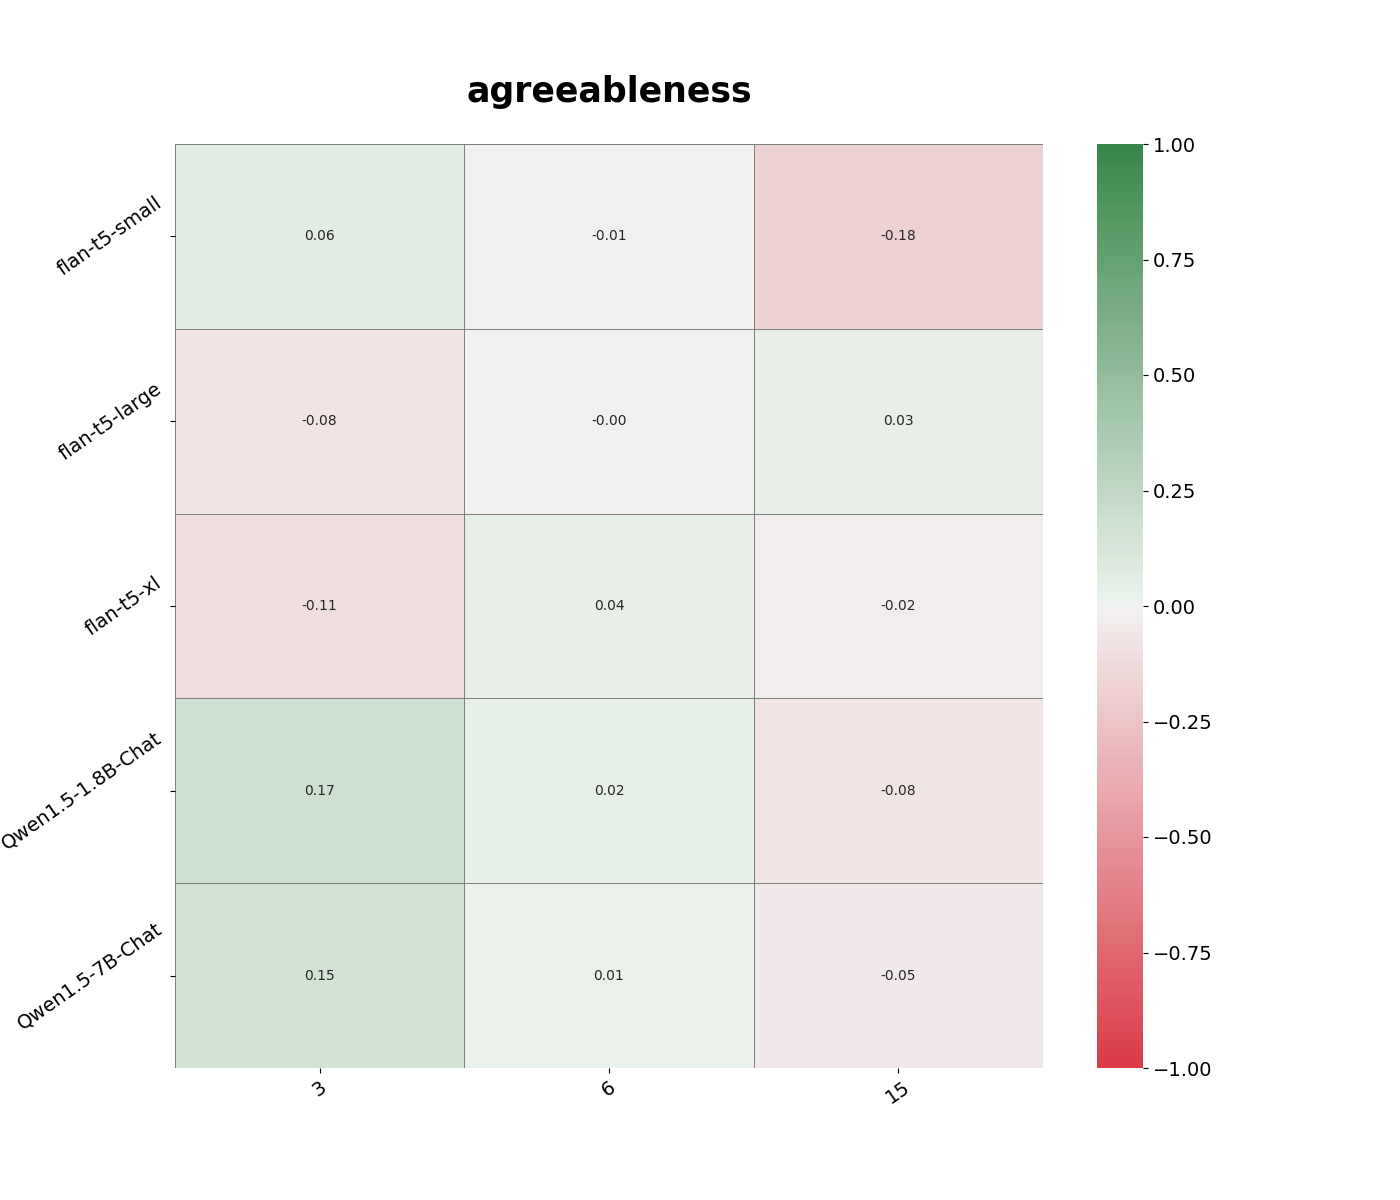
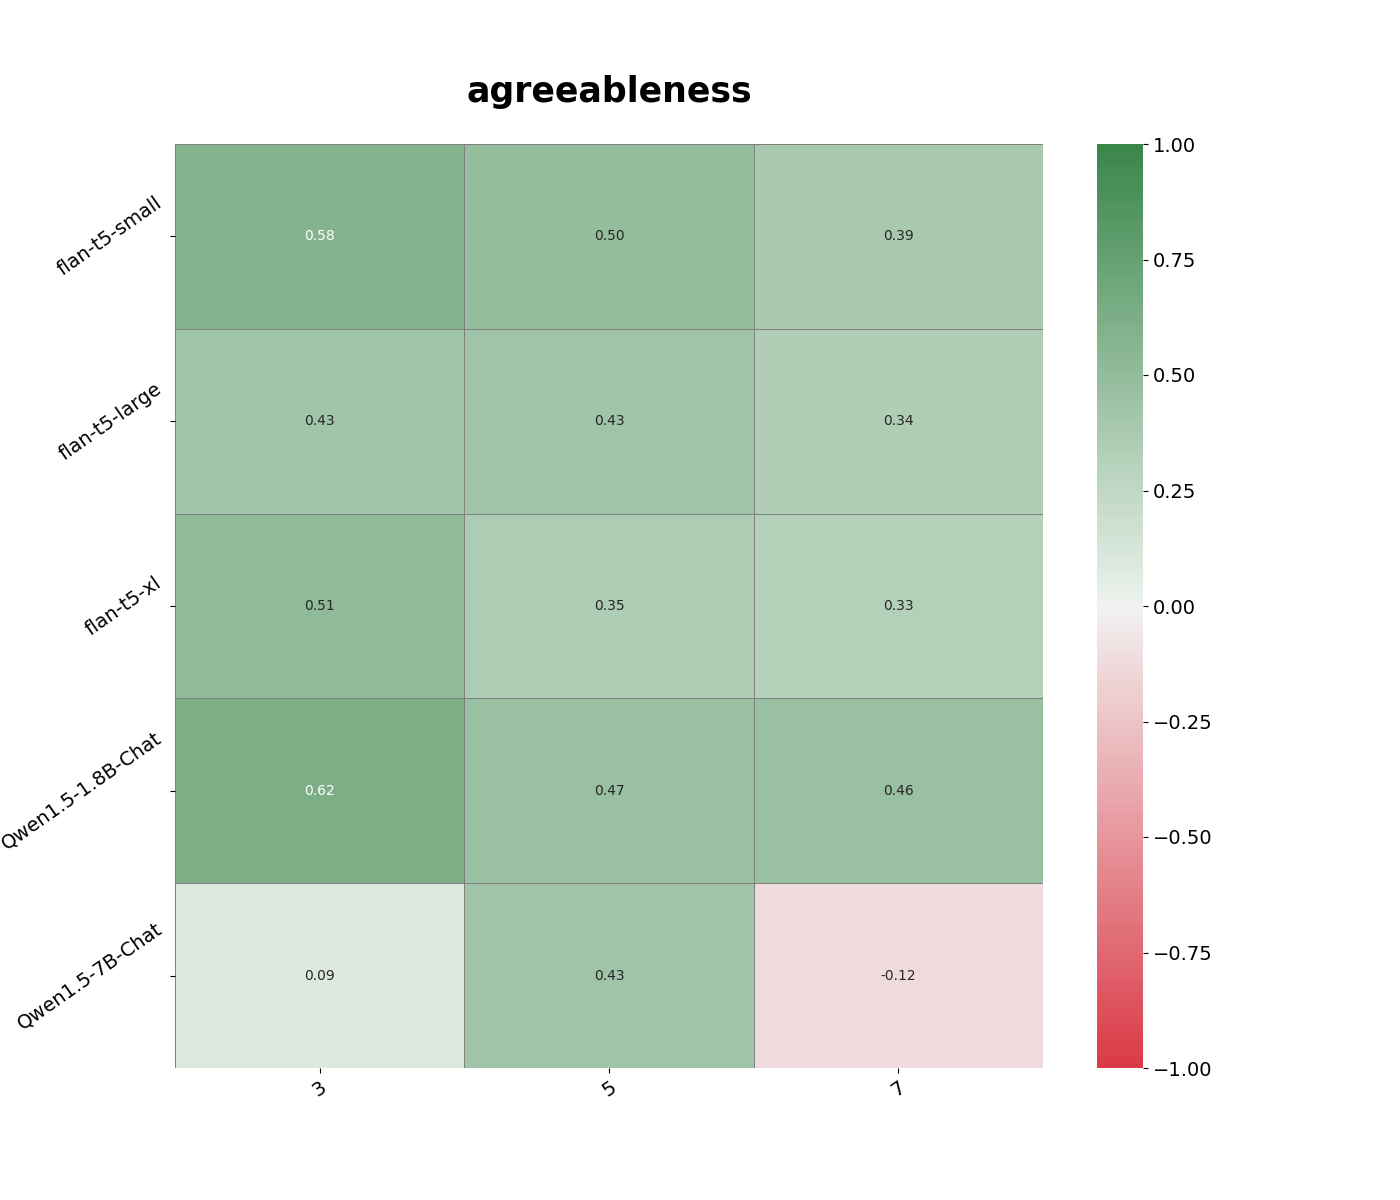
Update results for sampled responses

diff --git a/templates/index.html b/templates/index.html
@@ -106,7 +106,7 @@
                             <td>Qwen1.5-7B-Chat</td>
                             <td>flan-t5-xl</td>
                             <td>flan-t5-large</td>
-                            <td>sampled-response</td>
+                            
                             <td>flan-t5-small</td>
                         </tr>
                         <tr>
@@ -114,13 +114,13 @@
                             <td>flan-t5-xl</td>
                             <td>Qwen1.5-1.8B-Chat</td>
                             <td>flan-t5-large</td>
-                            <td>sampled-response</td>
+                            
                             <td>flan-t5-small</td>
                         </tr>
                         <tr>
                             <td>flan-t5-small</td>
                             <td>flan-t5-large</td>
-                            <td>sampled-response</td>
+                            
                             <td>flan-t5-xl</td>
                             <td>Qwen1.5-8B-Chat</td>
                             <td>Qwen1.5-1.8B-Chat</td>
@@ -131,7 +131,7 @@
                             <td>Qwen1.5-7B-Chat</td>
                             <td>Qwen1.5-1.8B-Chat</td>
                             <td>flan-t5-small</td>
-                            <td>sampled-response</td>
+                            
                         </tr>
                         <tr>
                             <td>flan-t5-xl</td>
@@ -139,7 +139,7 @@
                             <td>Qwen1.5-7B-Chat</td>
                             <td>Qwen1.5-1.8B-Chat</td>
                             <td>flan-t5-small</td>
-                            <td>sampled-response</td>
+                            
                         </tr>
                     </tbody>
                 </table>
@@ -164,8 +164,8 @@
                 </div>
                 <h3>Correlation between model with sampled response </h3>
                 <p>Correlation between a model and sampled responses for a given
-                    persona is computed by randomly sampling responses to n =
-                    {3, 6, 15} other questions from the same persona dataset,
+                    persona is computed by randomly sampling responses to n 
+                    other questions from the same persona dataset,
                     averaging the probabily corresponding to
                     &quot;answer_matching_behavior&quot; to compute the
                     correlation. Aggreating across persona is done as described

diff --git a/generate_graphs.py b/generate_graphs.py
@@ -84,16 +84,16 @@ def compute_all_pairs_correlations():
 def sample_response_probs(model_persona_data, num_samples):
     num_questions = len(model_persona_data)
     average_prob_list, model_prob_list = [], []
-    for i in range(num_questions):
-        indices = list(range(num_questions))
-        indices.remove(i)
+    np.random.shuffle(model_persona_data)
 
-        sampled_indices = np.random.choice(indices, num_samples, replace=False)
+    for i in range(0, num_questions-num_samples, num_samples):
+        sampled_indices = list(range(i,i+num_samples))
         avg_prob = np.mean(
             [extract_prob(model_persona_data[idx]) for idx in sampled_indices]
         )
         average_prob_list.append(avg_prob)
         model_prob_list.append(extract_prob(model_persona_data[i]))
+        model_persona_data[i]["predicted_avg"] = avg_prob
 
     return model_prob_list, average_prob_list
 
@@ -108,7 +108,7 @@ def compute_correlations_with_sampled_responses():
             file_path = os.path.join("models/", model_name, persona_data_file_name)
             model_persona_data = load_file_contents(file_path)
 
-            for num_samples in [3, 6, 15]:
+            for num_samples in [3, 5, 7]:
                 model_probs_list, avg_probs_list = sample_response_probs(
                     model_persona_data, num_samples
                 )

diff --git a/README.md b/README.md
@@ -82,7 +82,7 @@ To aggregate the correlation between two models across personas, I take the aver
 
 ![All pairs Correlation](static/images/all_pairs/average-across-persona_heatmap.png)
 
-Correlation between a model and sampled responses for a given persona is computed by randomly sampling responses to n = {3, 6, 15} other questions from the same persona dataset, averaging the probabily corresponding to "answer_matching_behavior" to compute the correlation. Aggreating across persona is done as described above.
+Correlation between a model and sampled responses for a given persona is computed by randomly sampling responses to n other questions from the same persona dataset, averaging the probabily corresponding to "answer_matching_behavior" to compute the correlation. Aggreating across persona is done as described above.
 
 ![Sample Correlation](static/images/n_sample_averages/average-across-persona_heatmap.png)
 
@@ -95,10 +95,10 @@ For the five models evaluated, the best predictor of their response is sumaarize
 
 Model | Best Predictors | 2nd | 3rd | 4th | 5th
 --- | --- | --- | --- | --- | --- |
-Qwen1.5-1.8B-Chat | Qwen1.5-7B-Chat | flan-t5-xl | flan-t5-large | sampled-response | flan-t5-small
-Qwen1.5-7B-Chat | flan-t5-xl | Qwen1.5-1.8B-Chat | flan-t5-large | sampled-response | flan-t5-small
-flan-t5-small | flan-t5-large | sampled-response | flan-t5-xl | Qwen1.5-8B-Chat | Qwen1.5-1.8B-Chat
-flan-t5-large | flan-t5-xl | Qwen1.5-7B-Chat | Qwen1.5-1.8B-Chat | flan-t5-small | sampled-response
-flan-t5-xl | flan-t5-large | Qwen1.5-7B-Chat | Qwen1.5-1.8B-Chat | flan-t5-small | sampled-response
+Qwen1.5-1.8B-Chat | Qwen1.5-7B-Chat | flan-t5-xl | flan-t5-large  | flan-t5-small
+Qwen1.5-7B-Chat | flan-t5-xl | Qwen1.5-1.8B-Chat | flan-t5-large  | flan-t5-small
+flan-t5-small | flan-t5-large  | flan-t5-xl | Qwen1.5-8B-Chat | Qwen1.5-1.8B-Chat
+flan-t5-large | flan-t5-xl | Qwen1.5-7B-Chat | Qwen1.5-1.8B-Chat | flan-t5-small 
+flan-t5-xl | flan-t5-large | Qwen1.5-7B-Chat | Qwen1.5-1.8B-Chat | flan-t5-small 
 
 
